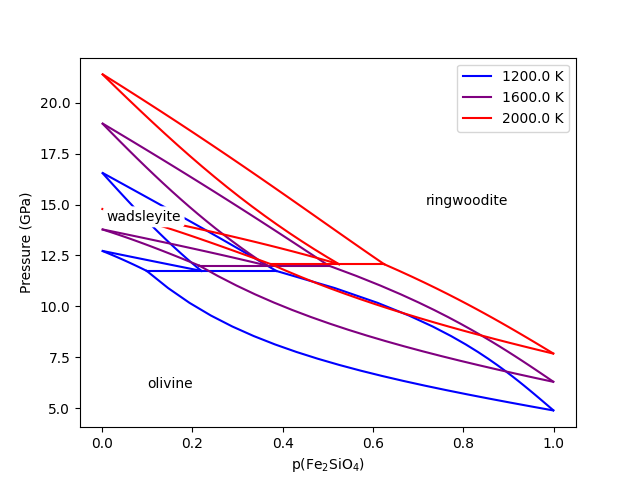
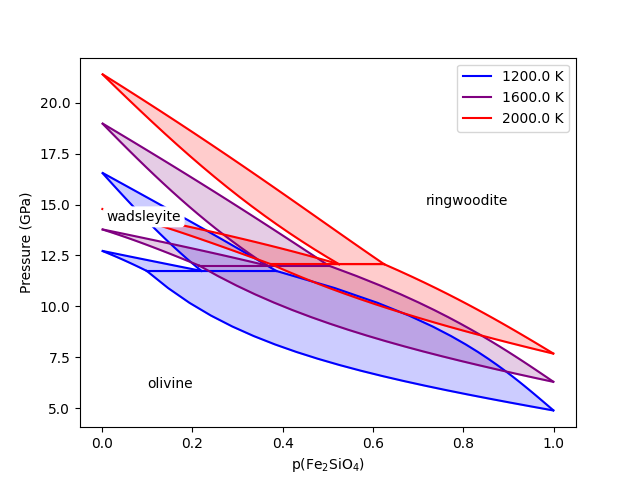
added fill_betweenx to figure

diff --git a/examples/example_olivine_binary.py b/examples/example_olivine_binary.py
@@ -129,6 +129,8 @@ if __name__ == "__main__":
             else:
                 ax[0].plot(x_fe_m1s, pressures/1.e9, color=color)
             ax[0].plot(x_fe_m2s, pressures/1.e9, color=color)
+            ax[0].fill_betweenx(pressures/1.e9, x_fe_m1s, x_fe_m2s,
+                                color=color, alpha=0.2)
             i += 1
 
     ax[0].text(0.1, 6., 'olivine', horizontalalignment='left')

diff --git a/docs/examples.rst b/docs/examples.rst
@@ -261,13 +261,11 @@ Advanced examples:
 
 .. figure:: figures/example_equilibrate_Figure_6_ol_polymorphs.png
 
+  A P-T pseudosection for a composition of Fe0.2Mg1.8SiO4 (fo90).
 
 .. raw:: latex
 
     \clearpage
-
-
-  A P-T pseudosection for a composition of Fe0.2Mg1.8SiO4 (fo90).
 
 .. automodule:: examples.example_olivine_binary
 
